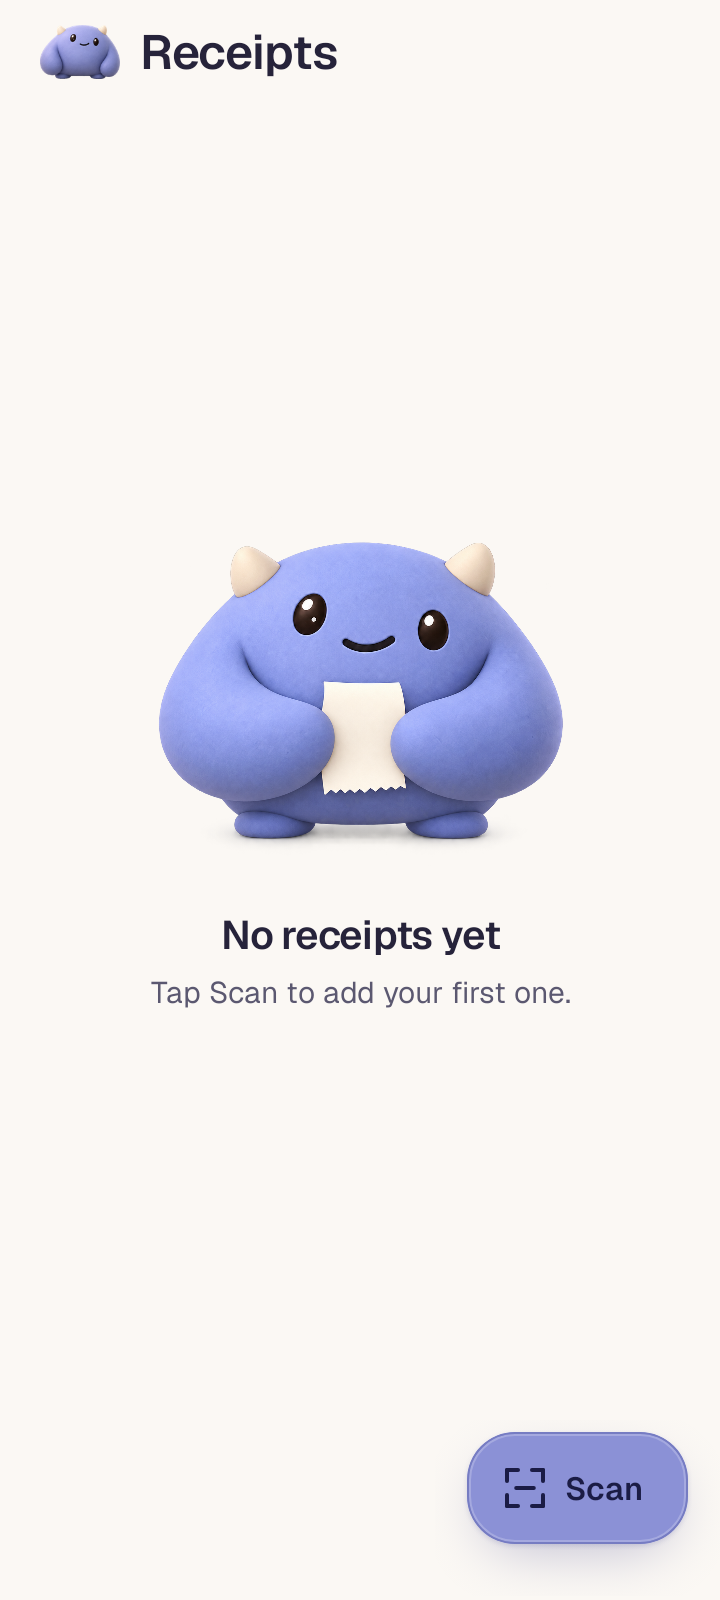
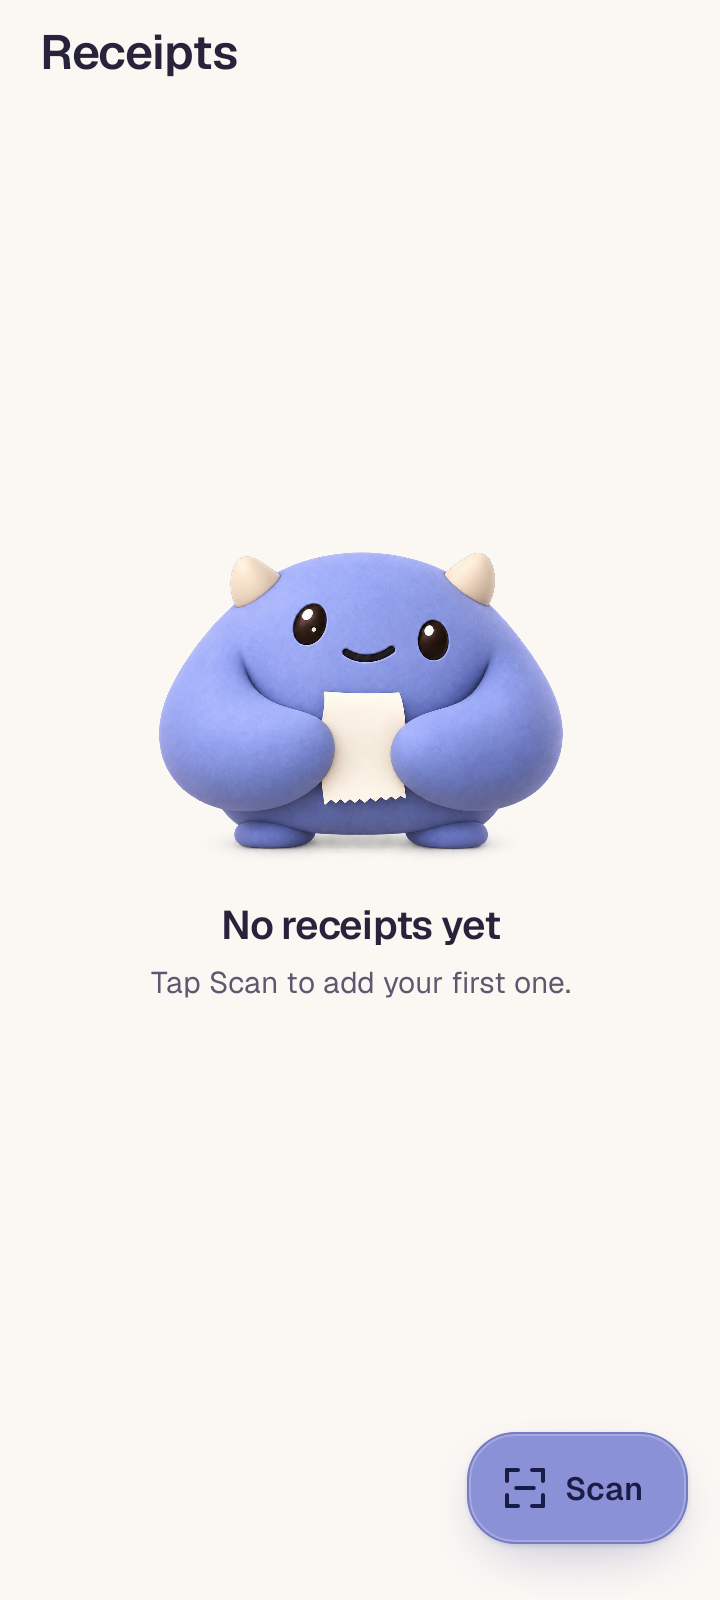
feat(goho-android): add reassuring Bram to the all-good state (#103)
* feat(goho-android): add reassuring Bram to the all-good state

- show the approved thumbs-up Bram when Needs attention is empty
- pair the illustration with calm all-good copy in both themes
- synchronize design guidance, artwork sources, and native mockups

* fix(goho-android): tighten Bram spacing and simplify the header

- bring empty-state illustrations closer to their titles
- remove the small Bram mark from the Receipts header
- synchronize design references and native mockups

diff --git a/programs/goho-android/tools/bram-captures/harness/src/com/adamaho/goho/evidence/ReceiptEvidenceTest.kt b/programs/goho-android/tools/bram-captures/harness/src/com/adamaho/goho/evidence/ReceiptEvidenceTest.kt
@@ -68,7 +68,7 @@ class ReceiptEvidenceTest {
     private fun attention(name: String) {
         render(ReceiptOverviewState(receipts = listOf(saved), hasLoaded = true))
         compose.onNodeWithText("Needs attention").performClick()
-        compose.onNodeWithText("Nothing needs attention").assertExists()
+        compose.onNodeWithText("All good").assertExists()
         capture(name)
     }
     private fun error(name: String) { render(ReceiptOverviewState(error = true)); capture(name) }
@@ -98,7 +98,7 @@ class ReceiptEvidenceTest {
         RuntimeEnvironment.setFontScale(2f)
         attention("large-font-no-attention")
         compose.onNodeWithText("Scan", useUnmergedTree = true).assertIsDisplayed()
-        compose.onNodeWithText("Receipts that couldn’t be processed will show up here.", useUnmergedTree = true).performScrollTo().assertIsDisplayed()
+        compose.onNodeWithText("Nothing needs your attention right now.", useUnmergedTree = true).performScrollTo().assertIsDisplayed()
         capture("large-font-no-attention-scrolled")
     }
     private fun deleteLast(withSaved: Boolean, name: String) {
@@ -116,7 +116,7 @@ class ReceiptEvidenceTest {
         compose.waitForIdle()
         compose.onNodeWithText("Delete receipt").performClick()
         compose.waitForIdle()
-        compose.onNodeWithText("Nothing needs attention").assertIsDisplayed()
+        compose.onNodeWithText("All good").assertIsDisplayed()
         compose.onNodeWithText("Needs attention").assertIsSelected()
         compose.onNodeWithText("Needs attention").assertTextEquals("Needs attention")
         compose.onNodeWithText("Scan", useUnmergedTree = true).assertIsDisplayed()

diff --git a/programs/goho-android/app/src/main/kotlin/com/adamaho/goho/ui/components/ReceiptListHeader.kt b/programs/goho-android/app/src/main/kotlin/com/adamaho/goho/ui/components/ReceiptListHeader.kt
@@ -1,12 +1,10 @@
 package com.adamaho.goho.ui.components
 
-import androidx.compose.foundation.Image
 import androidx.compose.foundation.layout.*
 import androidx.compose.material3.Text
 import androidx.compose.runtime.Composable
 import androidx.compose.ui.Alignment
 import androidx.compose.ui.Modifier
-import androidx.compose.ui.res.painterResource
 import androidx.compose.ui.res.stringResource
 import androidx.compose.ui.semantics.heading
 import androidx.compose.ui.semantics.semantics
@@ -22,7 +20,6 @@ fun ReceiptListHeader(
     onSelect: (Boolean) -> Unit,
     locale: Locale,
     showFilters: Boolean = true,
-    showMark: Boolean = true,
 ) {
     Column(
         Modifier.fillMaxWidth()
@@ -33,14 +30,7 @@ fun ReceiptListHeader(
             Modifier.padding(start = GohoSpacing.textInsetFromMargin)
                 .heightIn(min = GohoSpacing.headerHeight),
             verticalAlignment = Alignment.CenterVertically,
-            horizontalArrangement = Arrangement.spacedBy(GohoSpacing.headerMarkGap),
         ) {
-            if (showMark)
-                Image(
-                    painterResource(R.drawable.bram_mark),
-                    contentDescription = null,
-                    modifier = Modifier.size(GohoSpacing.headerMark),
-                )
             Text(
                 stringResource(R.string.receipts_title),
                 style = GohoTheme.type.screenTitle,

diff --git a/.agents/skills/goho-design/assets/compose/GohoComponents.kt b/.agents/skills/goho-design/assets/compose/GohoComponents.kt
@@ -986,8 +986,10 @@ fun GohoDeleteError(modifier: Modifier = Modifier) {
 
 // ---------- Status content (empty and error states) ----------
 
-/** Current status content sits directly on the screen background. No receipts supplies Bram.
- * Needs-attention and load-error states omit illustration; additional character poses are deferred.
+/** Current status content sits directly on the screen background. No receipts supplies receipt-holding Bram.
+ * Empty Needs attention supplies calm thumbs-up Bram with "All good" and "Nothing needs your attention right now."
+ * Each state uses its transparent illustration unchanged in both themes, with a 4dp gap before its title.
+ * The Receipts header is text-only in every state. Load error omits illustration.
  * For retry, pass announcePolitely = true and reserve both button labels.
  * ReceiptOverview owns the success crossfade and passes animateEntrance = false on the incoming status content.
  */

diff --git a/programs/goho-android/app/src/debug/kotlin/com/adamaho/goho/ui/main/ReceiptStatesPreview.kt b/programs/goho-android/app/src/debug/kotlin/com/adamaho/goho/ui/main/ReceiptStatesPreview.kt
@@ -37,12 +37,12 @@ fun ReceiptsRetryingPreview() = StatePreview {
     ReceiptsConnectionErrorState(onRetry = {}, isRetrying = true)
 }
 
-@Preview(name = "Nothing needs attention – light", widthDp = 412)
+@Preview(name = "All good – light", widthDp = 412)
 @Preview(
-    name = "Nothing needs attention – dark",
+    name = "All good – dark",
     widthDp = 412,
     uiMode = Configuration.UI_MODE_NIGHT_YES,
 )
-@Preview(name = "Nothing needs attention – large text", widthDp = 320, fontScale = 1.5f)
+@Preview(name = "All good – large text", widthDp = 320, fontScale = 1.5f)
 @Composable
 fun NoNeedsAttentionPreview() = StatePreview { NoNeedsAttentionState() }

diff --git a/.agents/skills/goho-design/assets/compose/GohoTheme.kt b/.agents/skills/goho-design/assets/compose/GohoTheme.kt
@@ -255,7 +255,7 @@ object GohoSpacing {
     val statusCardActionBottom = 24.dp
     val statusIllustrationWidth = 220.dp
     val statusIllustrationHeight = 190.dp
-    val statusTitleTop = 14.dp
+    val statusTitleTop = 4.dp
     val statusBodyTop = 6.dp
     val statusBodyMaxWidth = 290.dp
     val statusActionTop = 22.dp
@@ -324,8 +324,6 @@ object GohoSpacing {
     val sectionLabelBottom = 8.dp
     val fabBottom = 28.dp
     val hairline = 1.dp
-    val headerMark = 40.dp
-    val headerMarkGap = 10.dp
     val headerHeight = 44.dp
     val headerTop = 4.dp
     val headerFadeHeight = 12.dp

diff --git a/programs/goho-android/app/src/main/kotlin/com/adamaho/goho/theme/Spacing.kt b/programs/goho-android/app/src/main/kotlin/com/adamaho/goho/theme/Spacing.kt
@@ -9,7 +9,7 @@ object GohoSpacing {
     val statusCardActionBottom = 24.dp
     val statusIllustrationWidth = 220.dp
     val statusIllustrationHeight = 190.dp
-    val statusTitleTop = 14.dp
+    val statusTitleTop = 4.dp
     val statusBodyTop = 6.dp
     val statusBodyMaxWidth = 290.dp
     val statusActionTop = 22.dp
@@ -78,8 +78,6 @@ object GohoSpacing {
     val sectionLabelBottom = 8.dp
     val fabBottom = 28.dp
     val hairline = 1.dp
-    val headerMark = 40.dp
-    val headerMarkGap = 10.dp
     val headerHeight = 44.dp
     val headerTop = 4.dp
     val headerFadeHeight = 12.dp

diff --git a/programs/goho-android/app/src/main/kotlin/com/adamaho/goho/ui/components/NoNeedsAttentionState.kt b/programs/goho-android/app/src/main/kotlin/com/adamaho/goho/ui/components/NoNeedsAttentionState.kt
@@ -11,6 +11,7 @@ fun NoNeedsAttentionState(modifier: Modifier = Modifier, animateEntrance: Boolea
         title = stringResource(R.string.receipts_attention_empty),
         description = stringResource(R.string.receipts_attention_empty_body),
         modifier = modifier,
+        illustration = R.drawable.status_needs_attention,
         animateEntrance = animateEntrance,
     )
 }

diff --git a/programs/goho-android/app/src/main/kotlin/com/adamaho/goho/ui/main/ReceiptOverview.kt b/programs/goho-android/app/src/main/kotlin/com/adamaho/goho/ui/main/ReceiptOverview.kt
@@ -138,7 +138,6 @@ fun ReceiptOverview(
                     { attentionOnly = it },
                     locale,
                     showFilters = !error,
-                    showMark = !error,
                 )
                 if (showStatus) {
                     BoxWithConstraints(Modifier.weight(1f).fillMaxWidth()) {

diff --git a/.agents/skills/goho-design/SKILL.md b/.agents/skills/goho-design/SKILL.md
@@ -5,7 +5,7 @@ description: Goho's visual design system and screen specs for the native Android
 
 # Goho design
 
-Design handoff: October 7, 2026 no-receipts illustration and layout refinement, building on the October 5 Bram refinements (PR #101) and October 2 v2 package. The approved app refinements below take precedence over older examples in the reference assets.
+Design handoff: October 7, 2026 calm “All good” Bram for the empty Needs attention filter, building on the no-receipts and cardless layout refinement (PR #102), October 5 Bram refinements (PR #101), and October 2 v2 package. The approved app refinements below take precedence over older examples in the reference assets.
 
 Goho is a family receipt-scanning app. The look is **warm, soft and friendly, with financial-app precision**: warm off-white in light mode, violet-charcoal in dark mode, one lavender accent, generous rounded corners, Geist type with restrained weights and proportional figures, grouped cards, and buttons that press down with a small spring.
 
@@ -13,7 +13,7 @@ Think "Family wallet's warmth and motion, Linear's calm surfaces", never "Materi
 
 ## Bram refinements
 
-Buttons use flat fills, darker edge rings, faint inner rings and soft wide shadows; see `references/tokens.md`. Current Bram artwork is limited to the no-receipts illustration and neutral stance/header mark in `assets/illustrations/`. Render the supplied artwork unchanged. All three list status states render directly on the screen background, without an enclosing card fill, border or rounded clipping. Preserve their content padding, spacing and placement. The no-receipts state uses one transparent image of Bram cradling a blank receipt in both themes. Needs-attention and load-error states contain text and their existing actions, without illustrations or reserved illustration space. Additional character poses and accessories are deferred to a later PR. Interactive accents are lavender. The decorative 40dp neutral Bram mark precedes the Receipts title with a 10dp gap, except in the load-error state. Buttons have 20dp corners and Scan 24dp. Status entrance, retry, recovery, and large-text behavior are specified in `references/screens.md` section 6.
+Buttons use flat fills, darker edge rings, faint inner rings and soft wide shadows; see `references/tokens.md`. The app uses two Bram illustrations from `assets/illustrations/`: no receipts and the calm thumbs-up for the empty Needs attention filter. Neutral Bram assets remain identity references only. Render the supplied artwork unchanged. All three list status states render directly on the screen background, without an enclosing card fill, border or rounded clipping. Preserve their content padding and placement, with a 4dp gap between each illustration slot and its title. The no-receipts state uses one transparent image of Bram cradling a blank receipt in both themes. The empty Needs attention state uses one transparent image of Bram giving a calm thumbs-up in both themes, with “All good” and “Nothing needs your attention right now.” Keep his familiar lilac and cream palette, soft smile and rounded arm; no confetti or streamers. Load-error content remains text and retry action, without illustration or reserved illustration space. Additional character poses and accessories are deferred until their feature is implemented. Interactive accents are lavender. The Receipts header is text-only in every state, with the title at the 20dp text inset in a row at least 44dp tall. Buttons have 20dp corners and Scan 24dp. Status entrance, retry, recovery, and large-text behavior are specified in `references/screens.md` section 6.
 
 ## Geist typography
 
@@ -58,7 +58,7 @@ The current handoff keeps the same receipt photo, merchant, amount and date head
 2. Build the primitives in `references/components.md`. `assets/compose/GohoComponents.kt` is a reference implementation of them; it has not been compiled, so treat it as a strong starting point and fix any API drift against the project's Compose version.
 3. Build screens from `references/screens.md`, which has the layout top to bottom with measurements, copy, states and behavior.
 4. Compare against the mockups listed in `assets/mockups/README.md`. The written spec wins if they disagree.
-5. When an approved UI change alters the design, update the affected specs, Compose references, illustration assets, and current mockups together. Preserve supplied artwork; label older reference assets as historical rather than presenting them as current. Keep the neutral Bram identity reference and no-receipts generation prompts in `assets/illustrations/bram/`, approved artwork in `assets/illustrations/`, and current screen references in `assets/mockups/`. Check in only Bram artwork used by the no-receipts state or neutral stance; defer other character states and concept sheets until their implementation. The Android capture tooling lives in `programs/goho-android/tools/bram-captures/` at the repository root; generated captures and reports belong in the ignored Android `build/` directory.
+5. When an approved UI change alters the design, update the affected specs, Compose references, illustration assets, and current mockups together. Preserve supplied artwork; label older reference assets as historical rather than presenting them as current. Keep the neutral Bram identity reference and generation prompts in `assets/illustrations/bram/`, approved artwork in `assets/illustrations/`, and current screen references in `assets/mockups/`. Ship only the no-receipts and empty Needs attention illustrations. Keep neutral Bram artwork as design identity references only; defer other character states and concept sheets until their implementation. The Android capture tooling lives in `programs/goho-android/tools/bram-captures/` at the repository root; generated captures and reports belong in the ignored Android `build/` directory.
 6. Verify the requested behavior against the current Goho server and Android flow before implementing it. Mockups do not establish backend support.
 
 ## Approved receipt-list refinements

diff --git a/.agents/skills/goho-design/references/screens.md b/.agents/skills/goho-design/references/screens.md
@@ -8,7 +8,7 @@ List and details receipt options and deletion use the same supported server endp
 
 **Header** (status bar inset + 4dp top, `screenMargin` sides)
 
-- Decorative Bram mark (`bram-mark.png`), 40×40dp, then a 10dp gap and title “Receipts” (`screenTitle`, `textPrimary`), inset 4dp, in a row at least 44dp tall. Hide the mark for a load error.
+- Title “Receipts” (`screenTitle`, `textPrimary`) at the 20dp text inset (4dp inside the screen margin), in a row at least 44dp tall. The header is text-only in every state, with no Bram mark.
 - Keep compact filter tabs below the title: “All {count}” and “Needs attention {badge}”. Only the selected tab has a pill surface; there is no enclosing track. Keep the header fixed while the list scrolls, without moving or resizing the filters. Needs attention shows receipts in the Not processed state.
 
 **List**
@@ -147,7 +147,7 @@ One GohoSheet, opened from the details screen's overflow button, by pressing and
 
 ## 6. Empty and error states
 
-Mockups: `empty-needs-attention*.png`, `empty-no-receipts*.png`, `load-error*.png` (dark and `-light`). All three use the shared status content layout (components.md), directly on the screen background without an enclosing card fill, border or rounded clipping. Needs attention and load error show text and their existing actions; omit illustrations and reserved illustration space. No receipts shares one transparent Bram asset across both themes. Render it and the neutral Bram header mark unchanged. Dedicated character artwork for other states is deferred to a later PR. Older SVG illustrations are historical.
+Mockups: `empty-needs-attention*.png`, `empty-no-receipts*.png`, `load-error*.png` (dark and `-light`). All three use the shared status content layout (components.md), directly on the screen background without an enclosing card fill, border or rounded clipping. No receipts and empty Needs attention each share one transparent Bram asset across both themes. Render both unchanged, with a 4dp gap between the illustration slot and title. The Receipts header is text-only in every state. Load error shows text and the retry action, without an illustration or reserved illustration space. Dedicated character artwork for other states is deferred until its feature is implemented. Older SVG illustrations are historical.
 
 **Layout and transitions**
 
@@ -158,19 +158,19 @@ Mockups: `empty-needs-attention*.png`, `empty-no-receipts*.png`, `load-error*.pn
 
 **Needs attention, nothing in it**
 
-- Header includes Bram and filters ("Needs attention" selected, no badge). Preserve both filters after deleting the last failed receipt, even when the overall count is zero. The Scan button stays.
-- Text-only status content centered vertically between the filter and the Scan button, directly on the screen background. Omit the illustration and the gap that would precede the title.
-- Title "Nothing needs attention"; text "Receipts that couldn’t be processed will show up here." No button.
+- Header includes the “Receipts” title and filters ("Needs attention" selected, no badge). Preserve both filters after deleting the last failed receipt, even when the overall count is zero. The Scan button stays.
+- Bram and the copy are centered vertically between the filter and the Scan button, directly on the screen background. Illustration `status-needs-attention`: Bram gives a calm thumbs-up with a soft smile, using his familiar lilac and cream palette and rounded arms. Keep the approved pose without confetti, streamers or extra decorative colors. The single transparent PNG serves both themes, in the shared 220×190dp illustration slot.
+- Title "All good"; text "Nothing needs your attention right now." No button.
 
 **No receipts yet** (the account has no receipts at all)
 
-- Header shows Bram and the “Receipts” title (no filter). The Scan button stays.
-- Bram and the copy are centered between the header and Scan footer, directly on the plain screen background. Omit card fill, border and rounded clipping. Preserve the shared status content padding, illustration size and text spacing. Illustration `status-no-receipts`: Bram gently cradles a small blank cream receipt in front of his lower belly, with a welcoming smile. Preserve his broad lilac body, long rounded arms, small ivory horns and tiny feet. The single transparent PNG serves both themes; there is no separate floating receipt, plus badge or typing indicator.
+- Header shows the “Receipts” title (no filter). The Scan button stays.
+- Bram and the copy are centered between the header and Scan footer, directly on the plain screen background. Omit card fill, border and rounded clipping. Preserve the shared status content padding and illustration size, with a 4dp gap before the title. Illustration `status-no-receipts`: Bram gently cradles a small blank cream receipt in front of his lower belly, with a welcoming smile. Preserve his broad lilac body, long rounded arms, small ivory horns and tiny feet. The single transparent PNG serves both themes; there is no separate floating receipt, plus badge or typing indicator.
 - Title "No receipts yet"; text "Tap Scan to add your first one." No button.
 
 **Couldn’t load receipts** (the list request failed)
 
-- Header shows only the “Receipts” title. No Bram header mark, filter, or Scan button.
+- Header shows only the “Receipts” title. No filter or Scan button.
 - Text and retry action centered in the available area below the header, directly on the screen background. Omit the illustration and the gap that would precede the title.
 - Title "Couldn’t load receipts"; text "Check your connection and try again."; full-width GohoPrimaryButton "Try again" 22dp below the text. While retrying, the button shows "Trying again…" and is disabled.
 - Announce the status content as a polite live region when it appears.

diff --git a/programs/goho-android/tools/bram-captures/README.md b/programs/goho-android/tools/bram-captures/README.md
@@ -15,12 +15,12 @@ Outputs default to the ignored `programs/goho-android/build/bram-captures/` dire
 Thirteen existing test filters cover the implemented screens and transitions:
 
 - No receipts: `noReceiptsLight`, `noReceiptsDark`, `smallEmpty`, `tallEmpty`, and `largeTextEmpty`.
-- Nothing needs attention: `noAttentionLight`, `noAttentionDark`, and `largeTextAttention`.
+- All good (empty Needs attention): `noAttentionLight`, `noAttentionDark`, and `largeTextAttention`.
 - Load error: `loadErrorLight`, `loadErrorDark`, and `largeTextError`.
 - Retry and deletion: `retryFailureAndSuccess` and `deleteLastFailedOverall`.
 
-Only the no-receipts state uses special Bram artwork. All three states sit directly on the screen background. Attention and load-error messages use text and their existing actions. The captures cover light and dark at 360×800dp, short at 360×640dp, tall at 412×960dp, and 2× font at 360×640dp, all at 2× density. Large-text checks capture initial and scrolled states and assert that their relevant copy or actions are reachable. The retry check verifies loading, failure, and recovery without shifting the error title; the deletion check verifies that deleting the last failed receipt preserves the selected Needs attention tab and visible Scan action. Fifteen selected screenshots are the approved mockups; the three additional initial large-text screenshots remain generated output.
+The no-receipts and empty Needs attention states use their approved Bram artwork. All three states sit directly on the screen background. The Receipts header uses text only; illustrated status states use the shared 4dp image-to-title spacing. Empty Needs attention pairs the calm thumbs-up pose with “All good” and “Nothing needs your attention right now.” Load errors use text and the existing retry action. The captures cover light and dark at 360×800dp, short at 360×640dp, tall at 412×960dp, and 2× font at 360×640dp, all at 2× density. Large-text checks capture initial and scrolled states and assert that their relevant copy or actions are reachable. The retry check verifies loading, failure, and recovery without shifting the error title; the deletion check verifies that deleting the last failed receipt preserves the selected Needs attention tab and visible Scan action. Fifteen selected screenshots are the approved mockups; the three additional initial large-text screenshots remain generated output.
 
-Artwork references and generation prompts live under [the design skill's Bram sources](../../../../.agents/skills/goho-design/assets/illustrations/bram/). The approved PNG master is [status-no-receipts.png](../../../../.agents/skills/goho-design/assets/illustrations/status-no-receipts.png). Approved screen references live in [its mockups directory](../../../../.agents/skills/goho-design/assets/mockups/). Generated capture history remains available in Git: commit `4a866b9` contains the original-artwork baseline and the card-backed receipt artwork, and `69c44fb` contains the cardless state, under the former `art/bram/no-receipts-review/` path.
+Artwork references and generation prompts live under [the design skill's Bram sources](../../../../.agents/skills/goho-design/assets/illustrations/bram/). The approved PNG masters are [status-no-receipts.png](../../../../.agents/skills/goho-design/assets/illustrations/status-no-receipts.png) and [status-needs-attention.png](../../../../.agents/skills/goho-design/assets/illustrations/status-needs-attention.png). Approved screen references live in [its mockups directory](../../../../.agents/skills/goho-design/assets/mockups/). Generated capture history remains available in Git: commit `4a866b9` contains the original-artwork baseline and the card-backed receipt artwork, and `69c44fb` contains the cardless state, under the former `art/bram/no-receipts-review/` path.
 
-The Kotlin harness was recovered from commit `c8f96f46a34118d3d45e44f3f7b2aa710afb86a8`. Its only source change removes the obsolete `output.name == "after"` phase guard from the existing deletion helper so it runs in the current output directory. [Harness provenance](harness-provenance.json) records original/current hashes, that change, and Gradle portability changes. Dependencies and test sources are added only for this invocation through `harness/init.gradle`; production Gradle files and app tests are unchanged. Filters run the 13 checks listed above.
+The Kotlin harness was recovered from commit `c8f96f46a34118d3d45e44f3f7b2aa710afb86a8`. Source changes remove the obsolete `output.name == "after"` phase guard from the existing deletion helper so it runs in the current output directory and update attention-state assertions to the approved “All good” copy. [Harness provenance](harness-provenance.json) records original/current hashes, those changes, and Gradle portability changes. Dependencies and test sources are added only for this invocation through `harness/init.gradle`; production Gradle files and app tests are unchanged. Filters run the 13 checks listed above.

diff --git a/.agents/skills/goho-design/assets/mockups/README.md b/.agents/skills/goho-design/assets/mockups/README.md
@@ -1,14 +1,14 @@
 # Mockups
 
-## Current status states (October 7, 2026 Bram asset scope)
+## Current status states (October 7, 2026 calm All good Bram)
 
-These captures render the production ReceiptOverview and its components using Robolectric native Android graphics (API 35) and Roborazzi. They are app renders without system bars, not emulator screenshots or redrawn mock layouts. The current captures show Bram cradling a blank receipt directly on the no-receipts screen background, the neutral Bram header mark where applicable, and text-only needs-attention and load-error content directly on the screen background. None of the three status states has an enclosing card. Their capture tooling is in `programs/goho-android/tools/bram-captures/` at the repository root. Dedicated Bram artwork for other states is deferred to a later PR.
+These captures render the production ReceiptOverview and its components using Robolectric native Android graphics (API 35) and Roborazzi. They are app renders without system bars, not emulator screenshots or redrawn mock layouts. The current captures show Bram cradling a blank receipt in the no-receipts state, a calm thumbs-up with “All good” in the empty Needs attention state, and text with a retry action in the load-error state. Content sits directly on the screen background, with a 4dp gap between each empty-state illustration slot and title. The Receipts header is text-only in every state. None of the three status states has an enclosing card. Their capture tooling is in `programs/goho-android/tools/bram-captures/` at the repository root. Dedicated Bram artwork for other states is deferred until their feature is implemented.
 
-- `empty-needs-attention.png` and `empty-needs-attention-light.png`: Nothing needs attention text directly on the screen background, neutral Bram header mark, selected filter, and Scan.
+- `empty-needs-attention.png` and `empty-needs-attention-light.png`: Calm thumbs-up Bram with “All good” and “Nothing needs your attention right now.” directly on the screen background, text-only Receipts header, selected filter, and Scan.
 - `empty-no-receipts.png` and `empty-no-receipts-light.png`: No receipts yet, with Bram and copy directly on the screen background, no surrounding card, and Scan in its footer; no filters.
 - `load-error.png` and `load-error-light.png`: Load-error text and retry action directly on the screen background, title only in the header, no Bram illustration or Scan.
 - `retry-running.png`, `retry-failed.png`, `retry-succeeded.png`: Disabled retry with stable bounds, failure in place, and the loaded list after success (light).
-- `deleted-last-failed-overall.png`: Needs-attention text on the screen background and neutral Bram header; Needs attention stays selected with All 0 after deleting the last failed receipt (light).
+- `deleted-last-failed-overall.png`: Calm thumbs-up Bram and All good copy on the screen background, with a text-only Receipts header; Needs attention stays selected with All 0 after deleting the last failed receipt (light).
 - `large-font-load-error-scrolled.png`, `large-font-no-attention-scrolled.png`, `large-font-no-receipts-scrolled.png`: 2× font, scrolled to expose the body/action; Scan has its own footer where present.
 - `small-360-no-receipts.png` and `tall-no-receipts.png`: Short and tall layout references.
 
@@ -16,7 +16,7 @@ Standard captures are 360×800dp at 2× (720×1600px). Edge captures use 360×64
 
 ## Historical layout references (October 2 v2)
 
-The remaining files were rendered from the older design canvas, usually at 824×1784px. They retain the previous jade palette, button geometry, and some superseded content. Use them only for the named layout/interaction concepts. Current colors, shapes, Bram header, status behavior, and approved refinements come from `references/*.md` and the current captures above.
+The remaining files were rendered from the older design canvas, usually at 824×1784px. They retain the previous jade palette, button geometry, and some superseded content. Use them only for the named layout/interaction concepts. Current colors, shapes, text-only header, status behavior, and approved refinements come from `references/*.md` and the current captures above.
 
 - `receipts.png` / `receipts-light.png`: Populated list layout.
 - `receipt-details.png` / `receipt-details-light.png`: Details with items and overflow.
